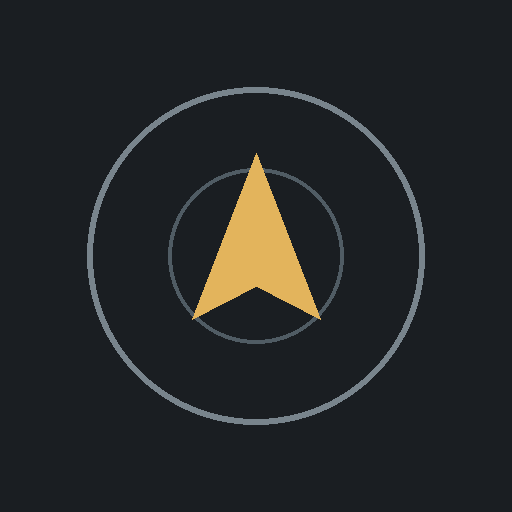
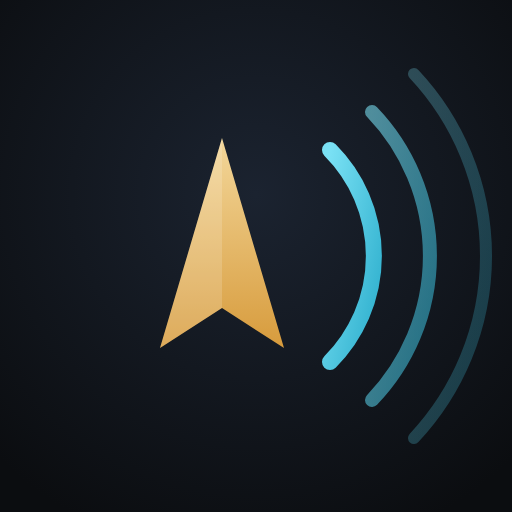
Icona nuova: la freccia che ti orienta e le onde della voce

diff --git a/sw.js b/sw.js
@@ -1,11 +1,12 @@
 /* Urbea — service worker: la città resta nel telefono */
-const CACHE = 'urbea-v4';
+const CACHE = 'urbea-v5';
 const ASSETS = [
   './',
   './index.html',
   './manifest.webmanifest',
   './icons/icon-192.png',
   './icons/icon-512.png',
+  './icons/icon-maskable.png',
   './voce/silenzio.m4a',
   './mappa/leaflet.js',
   './mappa/leaflet.css',
